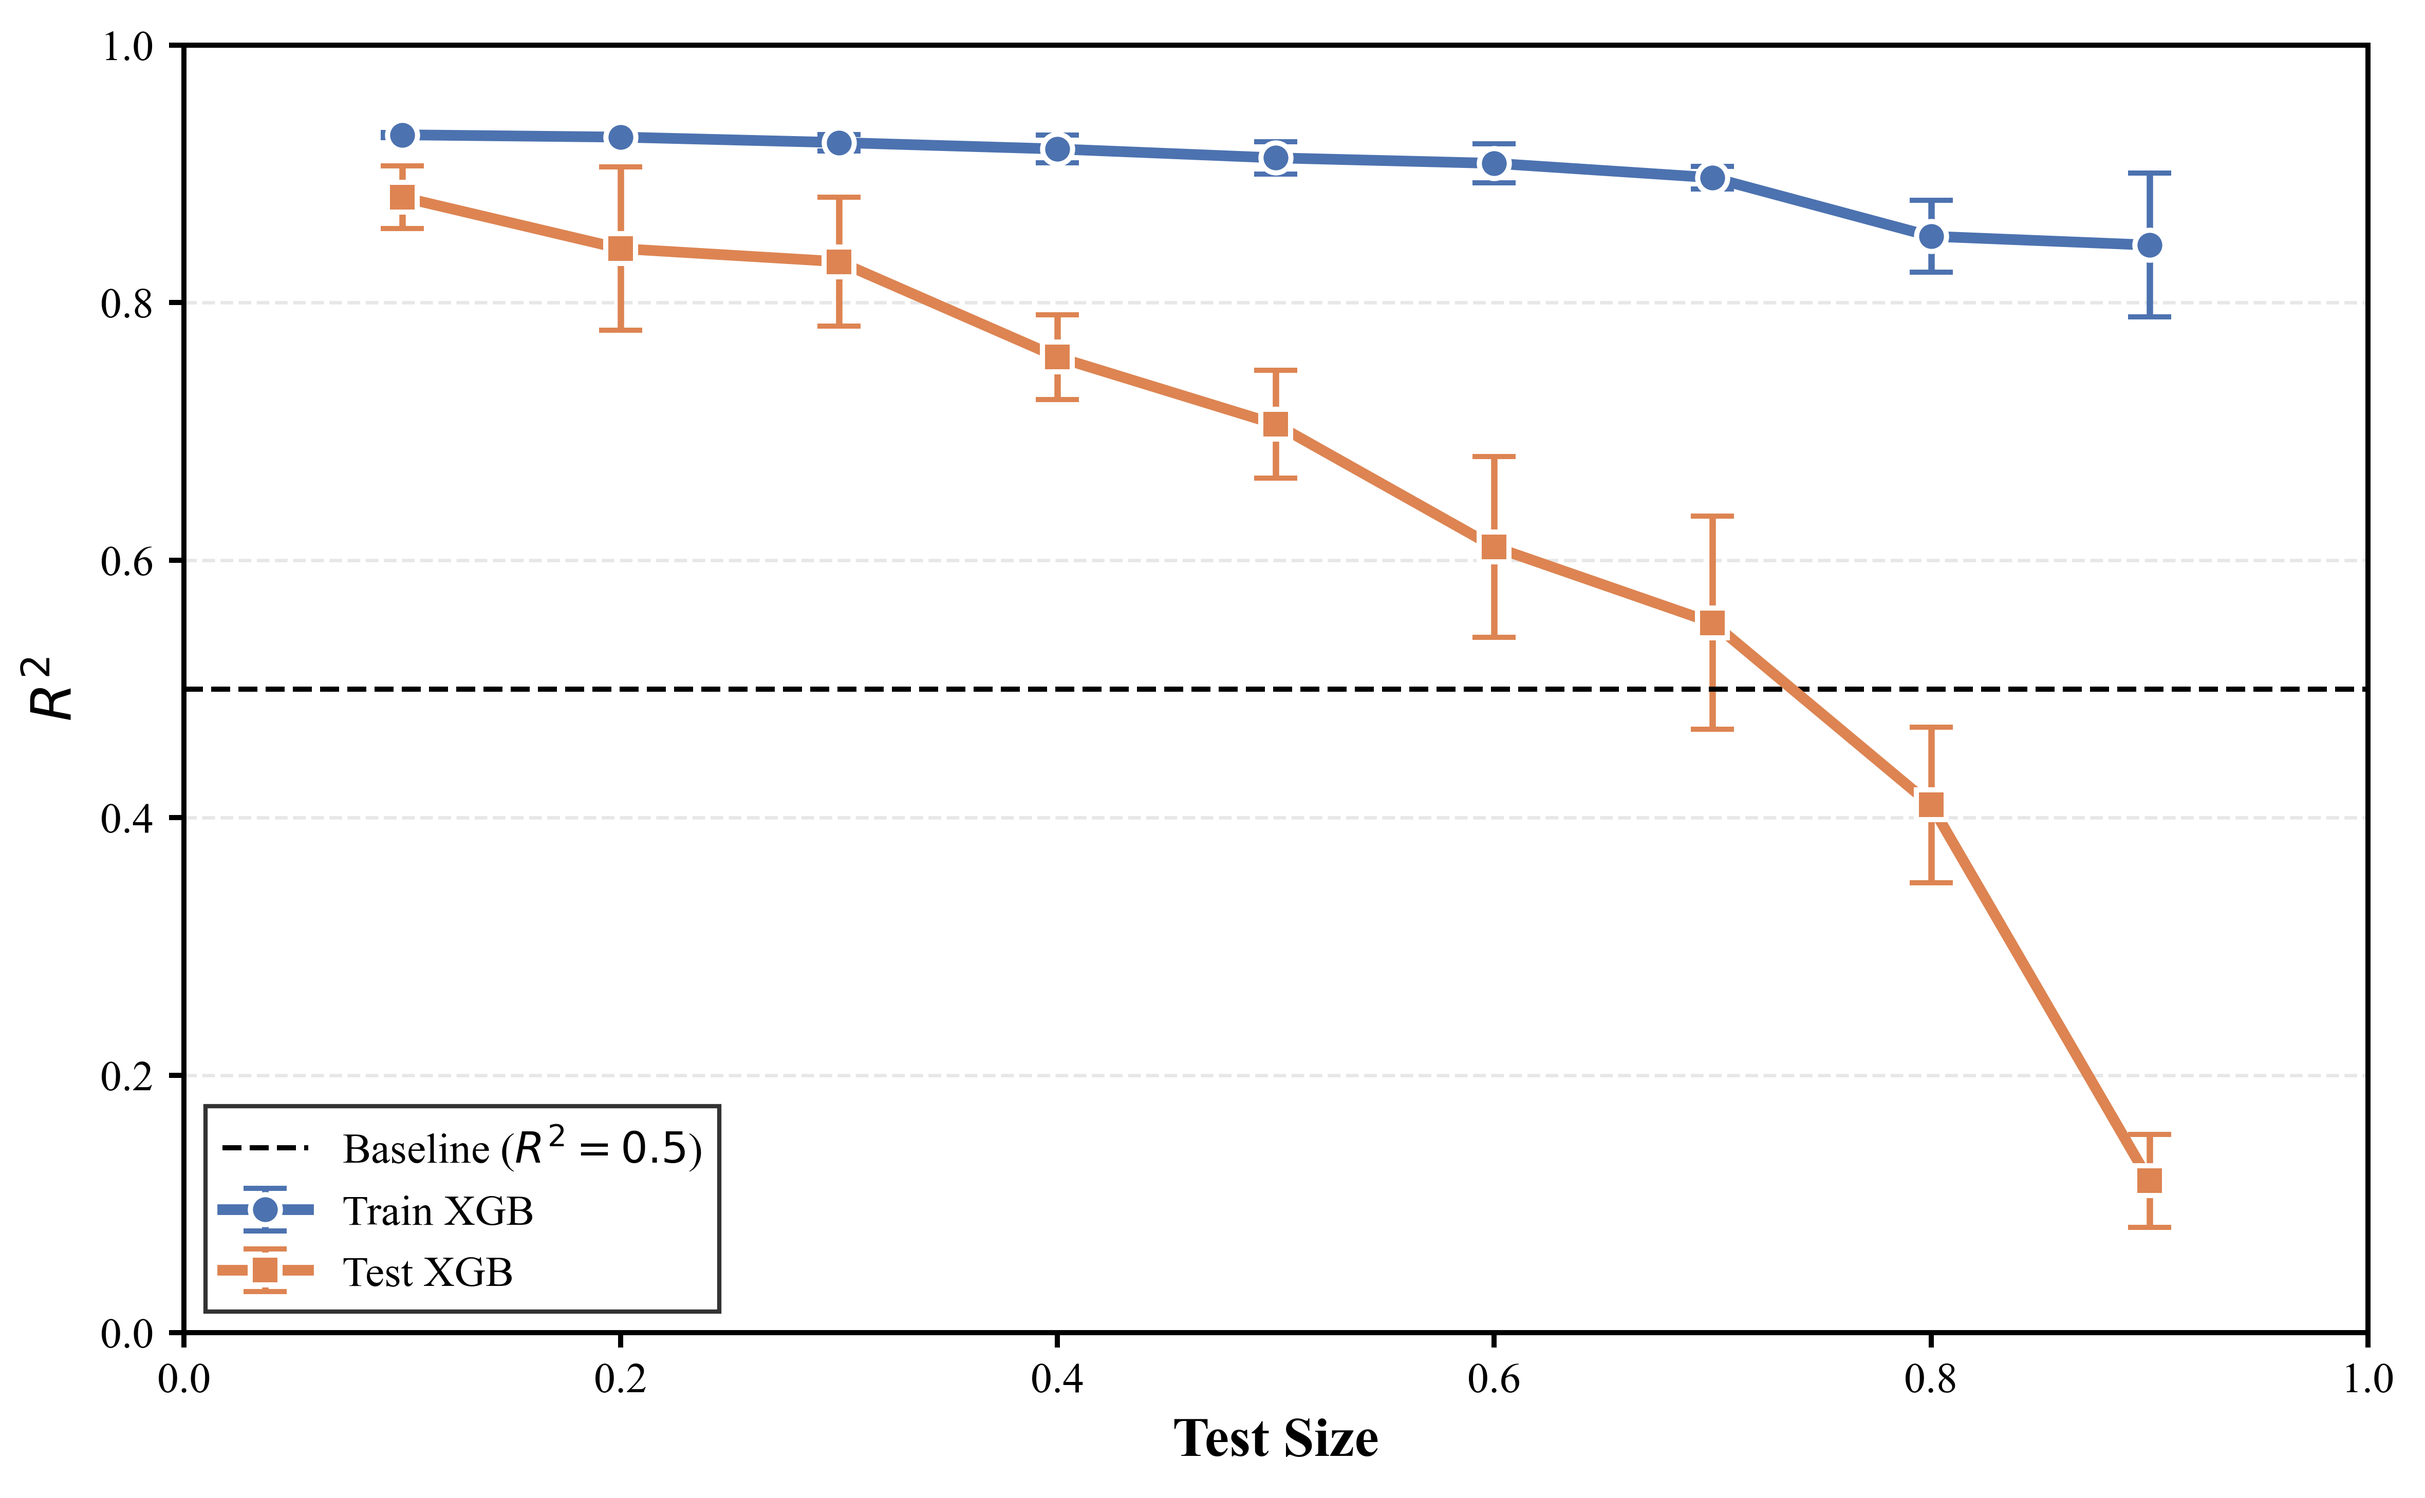
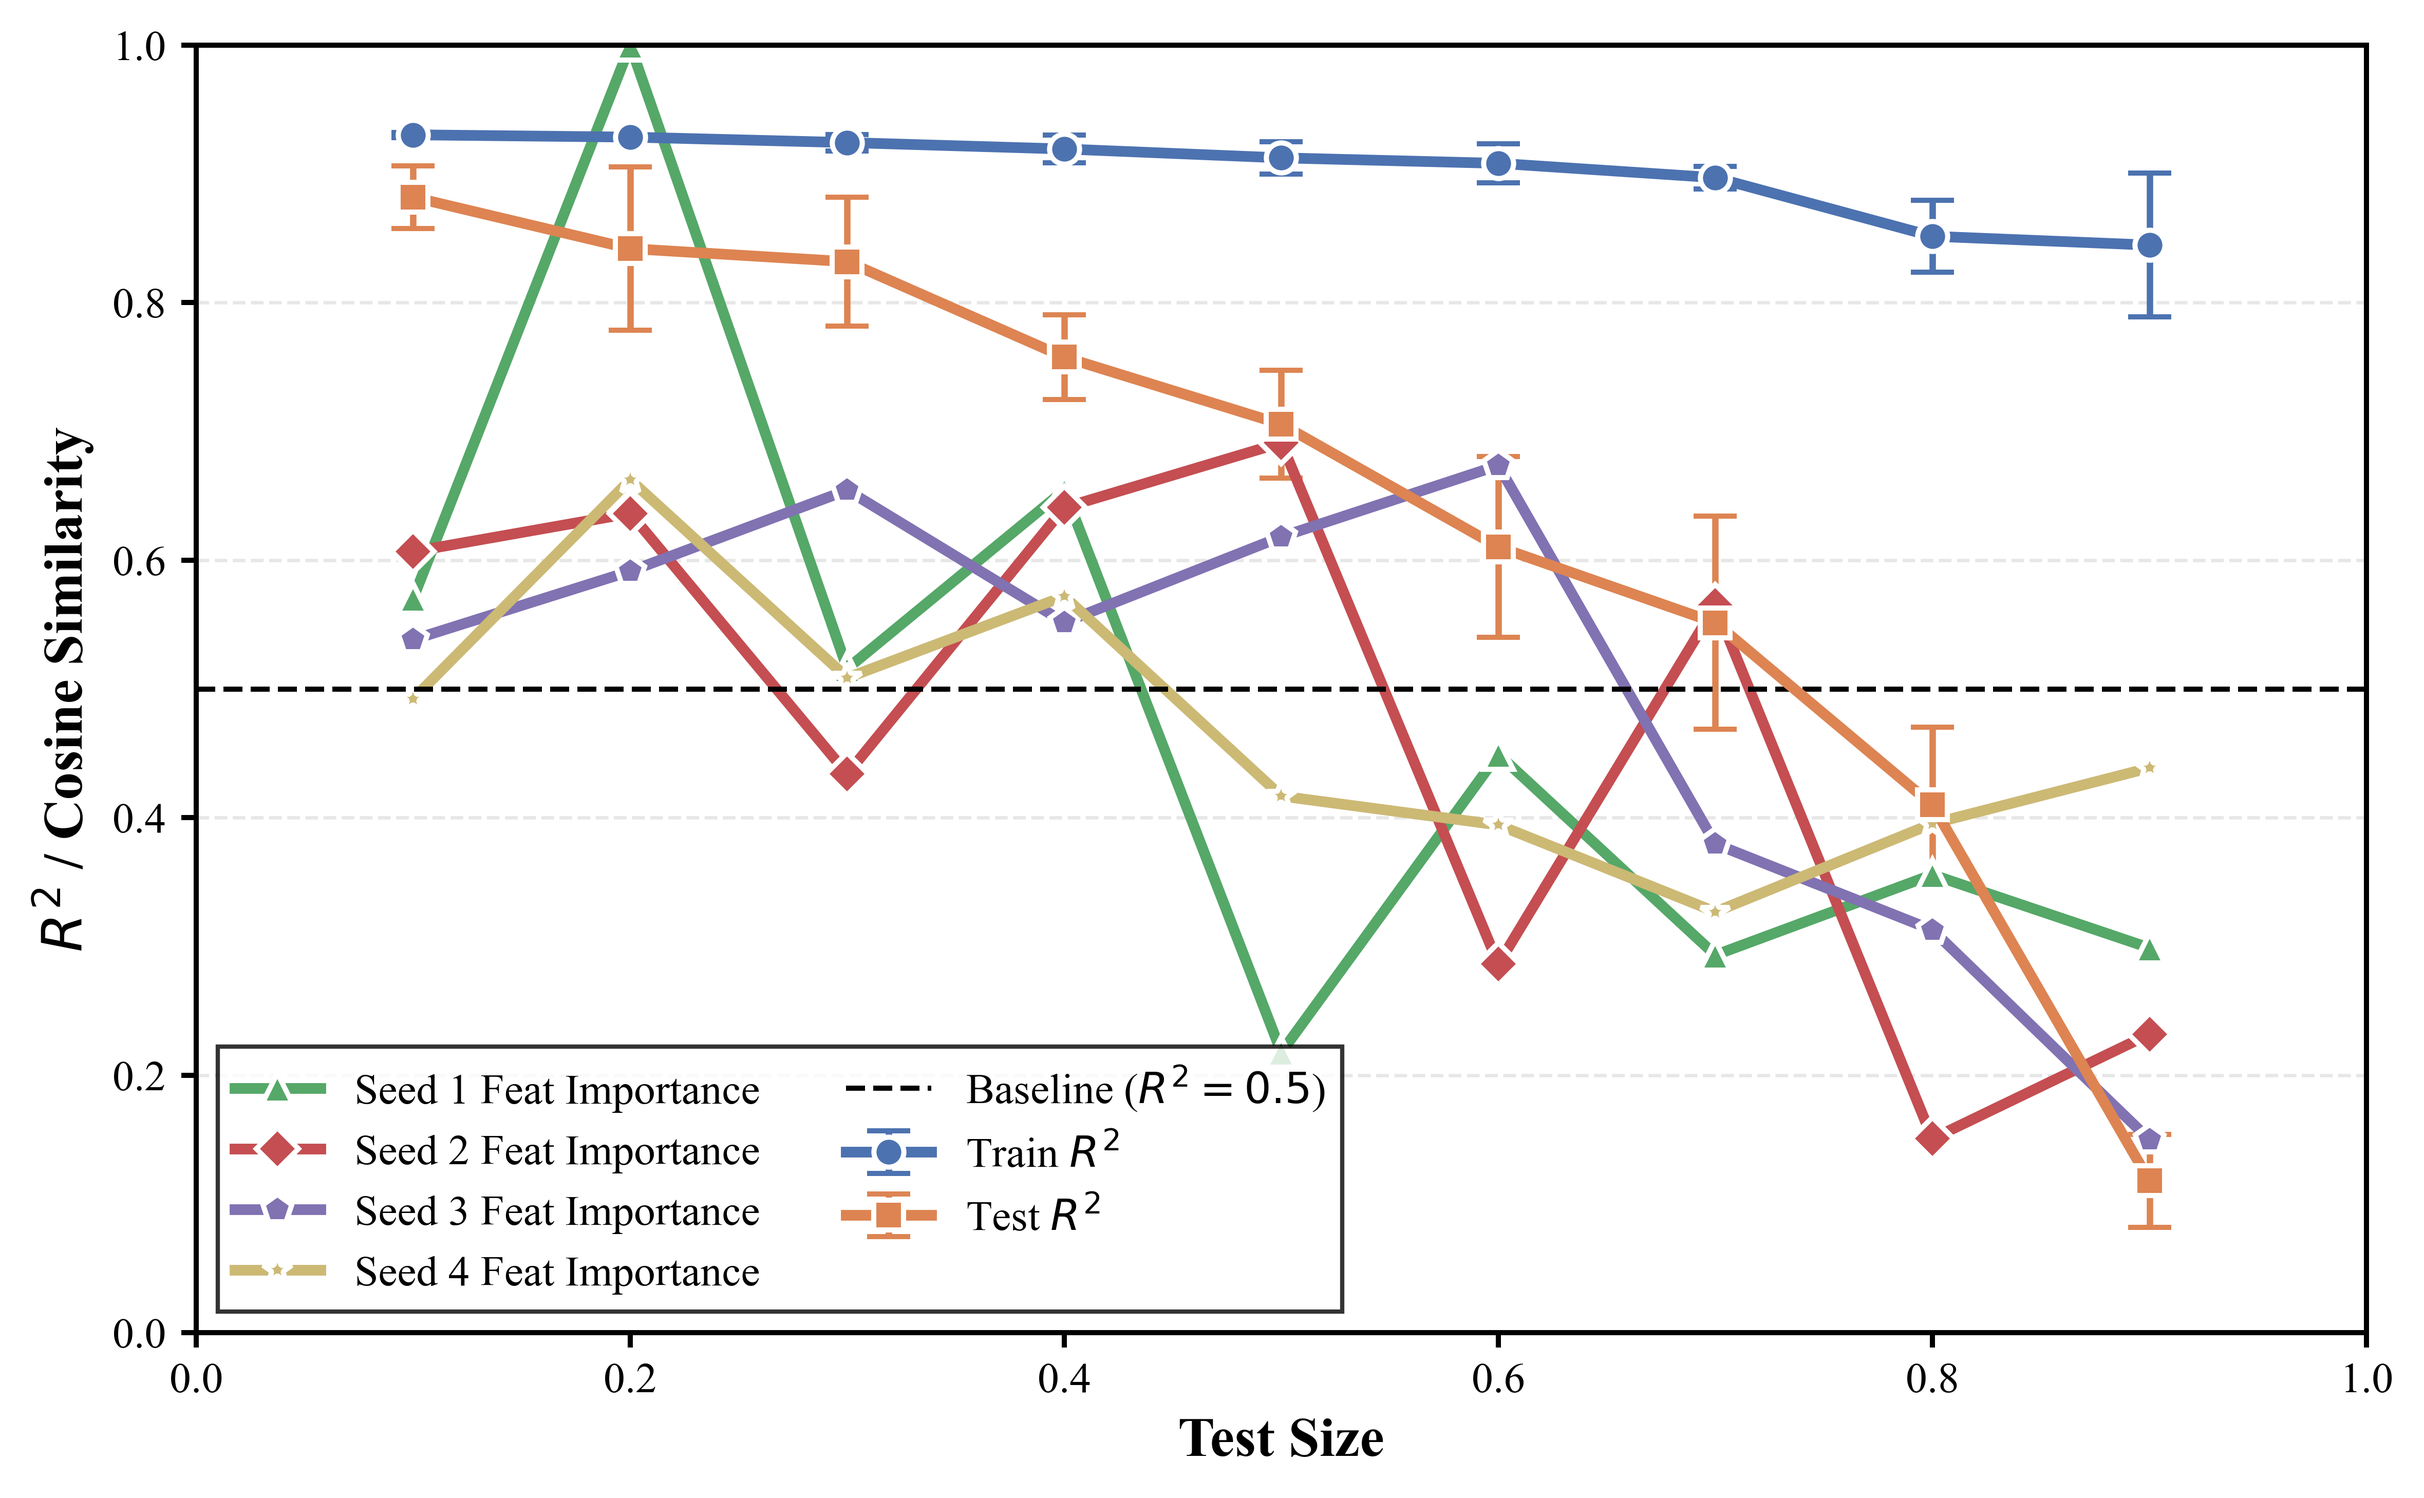
update by iaw

diff --git a/src/util/train_tools.py b/src/util/train_tools.py
@@ -65,16 +65,18 @@ def search_parms(model_name: str, X_train, y_train, seed: int, cv: int = 5) -> d
 
 def eval_dataset_split(seed_s: List[int], test_size_s: List[int], parms: Dict, model_name: str
                         , data_x: NDArray, data_y: NDArray, data_class: List
-                        , eval_func: callable) -> Tuple[list[float], list[float], list[float], list[float]]:
+                        , eval_func: callable) -> Tuple[list[float], list[float], list[float], list[float], Dict[str, List]]:
     """
     评估模型对数据集大小的依赖
     """
     train_score_mean_s, train_score_std_s = [], []
     test_score_mean_s, test_score_std_s = [], []
+    feature_importance_s = {}
     for i_size in test_size_s:
         train_score_tmp = []
         test_score_tmp = []
         for i_seed in seed_s:
+            
             _X_train, _X_test, _y_train, _y_test,  _class_train, _class_test = train_test_split(
                 data_x,        
                 data_y,
@@ -88,6 +90,12 @@ def eval_dataset_split(seed_s: List[int], test_size_s: List[int], parms: Dict, m
             model.fit(_X_train, _y_train)
             train_pred = model.predict(_X_train)
             test_pred = model.predict(_X_test)
+            importances: NDArray = model.feature_importances_
+            
+            if str(i_seed) not in feature_importance_s.keys():
+                feature_importance_s[str(i_seed)] = [importances]
+            else:
+                feature_importance_s[str(i_seed)].append(importances)
 
             train_score_tmp.append(eval_func(y_pred = train_pred, y_true = _y_train ))
             test_score_tmp.append(eval_func(y_pred = test_pred, y_true = _y_test))
@@ -96,7 +104,7 @@ def eval_dataset_split(seed_s: List[int], test_size_s: List[int], parms: Dict, m
         test_score_mean_s.append(np.mean(test_score_tmp))
         test_score_std_s.append(np.std(test_score_tmp))
 
-    return train_score_mean_s, train_score_std_s, test_score_mean_s, test_score_std_s
+    return train_score_mean_s, train_score_std_s, test_score_mean_s, test_score_std_s, feature_importance_s
 
 def load_data(data_x: str, data_y: str, x_label: str, data_class: str, data_name: Union[str, None] = None) -> Union[Tuple[NDArray, NDArray, List[str], List[int]], Tuple[NDArray, NDArray, List[str], List[int], List[str]]]:
     """
